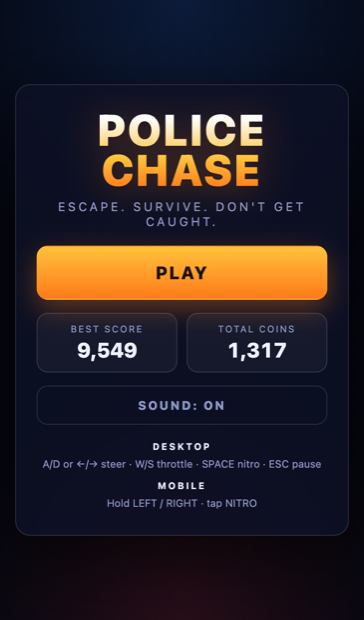
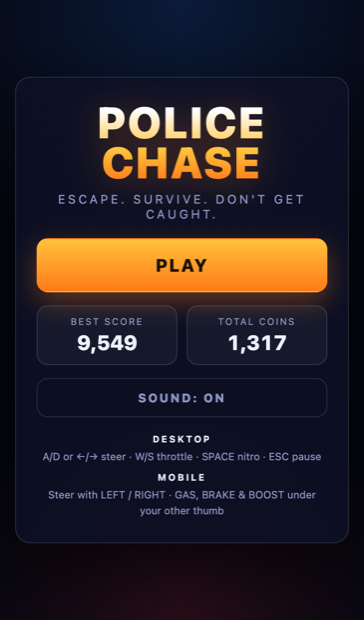
Add gas, brake and boost pedals to the mobile controls
Touch play only had LEFT, RIGHT and NITRO, so accelerate and brake were
never reachable on a phone. The car coasted at base speed with no way to
slow for a gap in traffic, and from the HARD tier onward the police
out-cruise that speed permanently, leaving nitro as the only escape.

Replace the single NITRO button with a three-pedal cluster grouped under
one thumb:

- GAS   (green, chevrons) bottom corner where the thumb rests
- BRAKE (red, octagon) beside it
- BOOST (blue, bolt) above it

Steering stays under the opposite thumb. The cluster is an L around the
thumb's pivot so all three are reachable without moving the hand, and
boost already forces acceleration on its own, so one thumb never needs to
hold two pedals at once.

Buttons are colour-coded and labelled with what they do. Sizes step down
at 400px and 340px viewports and in landscape; the smallest button stays
at 55px, above the 44px touch-target minimum.

Verified on iPhone 13, iPhone SE (320px), Pixel 7 and iPad: every control
sits inside the viewport with no overflow, and each pedal moves the car
state as expected (gas +242 speed, brake -352, boost +368 with nitro
drain). Holding GAS on a phone now reaches 644 speed, matching desktop.

diff --git a/src/style.css b/src/style.css
@@ -174,11 +174,21 @@ html, body {
 .ch-row b { color: var(--ink); font-size: 10px; letter-spacing: 2px; text-transform: uppercase; }
 
 /* ---------- Touch controls ---------- */
+/* Steering under the left thumb, the gas/brake/boost cluster under the right.
+   The cluster is an L around the thumb's natural pivot: GAS in the corner where
+   the thumb rests, BRAKE beside it, BOOST above it — all three reachable
+   without the hand moving. Boost already forces acceleration on its own, so a
+   single thumb never needs to hold two pedals at once. */
 #touch-controls {
+  --tc-dir: 76px;   /* steering buttons */
+  --tc-gas: 92px;   /* primary pedal, thumb rests here */
+  --tc-aux: 70px;   /* brake and boost */
+  --tc-gap: 10px;
+
   position: absolute;
   left: 0; right: 0;
   bottom: max(14px, env(safe-area-inset-bottom));
-  padding: 0 14px;
+  padding: 0 max(14px, env(safe-area-inset-left)) 0 max(14px, env(safe-area-inset-right));
   display: flex;
   align-items: flex-end;
   justify-content: space-between;
@@ -186,31 +196,96 @@ html, body {
   z-index: 15;
   pointer-events: none;
 }
+
+.tc-steer { display: flex; align-items: flex-end; gap: 12px; }
+
+.tc-pedals {
+  display: grid;
+  grid-template-columns: var(--tc-aux) var(--tc-gas);
+  grid-template-rows: var(--tc-aux) var(--tc-gas);
+  gap: var(--tc-gap);
+  align-items: end;
+  justify-items: end;
+}
+.tc-boost { grid-area: 1 / 2; }
+.tc-brake { grid-area: 2 / 1; }
+.tc-gas   { grid-area: 2 / 2; }
+
 .tc {
   pointer-events: auto;
   appearance: none;
-  border: 1px solid rgba(255, 255, 255, 0.2);
-  background: rgba(14, 18, 38, 0.5);
+  border: 1px solid rgba(255, 255, 255, 0.22);
+  background: rgba(14, 18, 38, 0.52);
   backdrop-filter: blur(8px);
   color: var(--ink);
   font: inherit;
   font-weight: 900;
   cursor: pointer;
-  display: flex; align-items: center; justify-content: center;
-  transition: transform 0.08s ease, background 0.08s ease;
+  display: flex;
+  flex-direction: column;
+  align-items: center;
+  justify-content: center;
+  gap: 1px;
+  padding: 0;
+  transition: transform 0.08s ease, background 0.08s ease, box-shadow 0.08s ease;
   touch-action: none;
 }
-.tc svg { width: 40px; height: 40px; fill: none; stroke: currentColor; stroke-width: 2.6; stroke-linecap: round; stroke-linejoin: round; }
-.tc-left, .tc-right { width: 84px; height: 84px; border-radius: 26px; }
-.tc-nitro {
-  width: 92px; height: 62px; border-radius: 20px;
-  margin-bottom: 11px;
-  font-size: 13px; letter-spacing: 2px;
-  background: linear-gradient(180deg, rgba(47, 123, 255, 0.55), rgba(47, 123, 255, 0.25));
-  border-color: rgba(120, 180, 255, 0.5);
+.tc span { font-size: 10px; letter-spacing: 1.2px; line-height: 1; opacity: 0.95; }
+.tc svg {
+  width: 30px; height: 30px;
+  fill: none; stroke: currentColor;
+  stroke-width: 2.4; stroke-linecap: round; stroke-linejoin: round;
 }
-.tc.active { transform: scale(0.93); background: rgba(255, 255, 255, 0.28); }
-.tc-nitro.active { background: linear-gradient(180deg, #7ab8ff, #2f7bff); color: #041024; }
+.tc svg.ic-fill { fill: currentColor; stroke: none; }
+
+/* Steering */
+.tc-dir { width: var(--tc-dir); height: var(--tc-dir); border-radius: 24px; }
+.tc-dir svg { width: 38px; height: 38px; stroke-width: 2.8; }
+
+/* Pedals — each colour-coded to what it does */
+.tc-gas {
+  width: var(--tc-gas); height: var(--tc-gas);
+  border-radius: 28px;
+  background: linear-gradient(180deg, rgba(34, 195, 122, 0.6), rgba(34, 195, 122, 0.26));
+  border-color: rgba(94, 255, 176, 0.55);
+  color: #ddfff0;
+}
+.tc-gas svg { width: 34px; height: 34px; }
+
+.tc-brake {
+  width: var(--tc-aux); height: var(--tc-aux);
+  border-radius: 22px;
+  background: linear-gradient(180deg, rgba(255, 59, 92, 0.52), rgba(255, 59, 92, 0.22));
+  border-color: rgba(255, 138, 158, 0.5);
+  color: #ffe2e7;
+}
+
+.tc-boost {
+  width: var(--tc-aux); height: var(--tc-aux);
+  border-radius: 22px;
+  background: linear-gradient(180deg, rgba(47, 123, 255, 0.55), rgba(47, 123, 255, 0.24));
+  border-color: rgba(143, 208, 255, 0.55);
+  color: #dcefff;
+}
+
+/* Pressed states */
+.tc.active { transform: scale(0.93); }
+.tc-dir.active { background: rgba(255, 255, 255, 0.3); }
+.tc-gas.active {
+  background: linear-gradient(180deg, #5effb0, #22c37a);
+  color: #04291a;
+  box-shadow: 0 0 22px rgba(94, 255, 176, 0.5);
+}
+.tc-brake.active {
+  background: linear-gradient(180deg, #ff8a9e, #ff3b5c);
+  color: #2b0410;
+  box-shadow: 0 0 22px rgba(255, 90, 120, 0.5);
+}
+.tc-boost.active {
+  background: linear-gradient(180deg, #8fd0ff, #2f7bff);
+  color: #041024;
+  box-shadow: 0 0 22px rgba(120, 190, 255, 0.55);
+}
 
 /* ---------- Pause button ---------- */
 .icon-btn {
@@ -232,10 +307,21 @@ html, body {
 .icon-btn:active { transform: scale(0.94); }
 
 /* ---------- Small screens / landscape ---------- */
-@media (max-width: 360px) {
+@media (max-width: 400px) {
+  #touch-controls { --tc-dir: 66px; --tc-gas: 80px; --tc-aux: 62px; --tc-gap: 8px; }
+  .tc-steer { gap: 9px; }
+  .tc svg { width: 26px; height: 26px; }
+  .tc-dir svg { width: 32px; height: 32px; }
+  .tc span { font-size: 9px; }
+}
+
+@media (max-width: 340px) {
   .panel { padding: 20px 16px; gap: 11px; }
-  .tc-left, .tc-right { width: 72px; height: 72px; }
-  .tc-nitro { width: 80px; height: 56px; }
+  #touch-controls { --tc-dir: 58px; --tc-gas: 70px; --tc-aux: 55px; --tc-gap: 7px; padding: 0 8px; }
+  .tc-steer { gap: 7px; }
+  .tc svg { width: 22px; height: 22px; }
+  .tc-dir svg { width: 28px; height: 28px; }
+  .tc span { font-size: 8px; letter-spacing: 0.6px; }
   .sb-value { font-size: 36px; }
 }
 
@@ -249,6 +335,6 @@ html, body {
   .btn { padding: 11px 16px; min-height: 42px; }
   .btn-primary { font-size: 17px; padding: 12px 16px; }
   .sb-value { font-size: 32px; }
-  #touch-controls { bottom: 10px; }
-  .tc-left, .tc-right { width: 70px; height: 70px; }
+  #touch-controls { bottom: 10px; --tc-dir: 62px; --tc-gas: 72px; --tc-aux: 56px; --tc-gap: 8px; }
+  .tc span { font-size: 9px; }
 }

diff --git a/index.html b/index.html
@@ -31,7 +31,7 @@
 
           <div class="controls-help">
             <div class="ch-row"><b>Desktop</b><span>A/D or ←/→ steer · W/S throttle · SPACE nitro · ESC pause</span></div>
-            <div class="ch-row"><b>Mobile</b><span>Hold LEFT / RIGHT · tap NITRO</span></div>
+            <div class="ch-row"><b>Mobile</b><span>Steer with LEFT / RIGHT · GAS, BRAKE &amp; BOOST under your other thumb</span></div>
           </div>
         </div>
       </section>
@@ -73,10 +73,33 @@
       </section>
 
       <!-- ===== Touch controls ===== -->
-      <div id="touch-controls" class="hidden" aria-hidden="true">
-        <button class="tc tc-left" data-ctl="left" aria-label="Steer left"><svg viewBox="0 0 24 24"><path d="M15 5 8 12l7 7"/></svg></button>
-        <button class="tc tc-nitro" data-ctl="nitro" aria-label="Nitro">NITRO</button>
-        <button class="tc tc-right" data-ctl="right" aria-label="Steer right"><svg viewBox="0 0 24 24"><path d="m9 5 7 7-7 7"/></svg></button>
+      <!-- Steering sits under the left thumb; gas/brake/boost are grouped as a
+           single cluster under the right thumb, arranged so one thumb can reach
+           all three without lifting off. -->
+      <div id="touch-controls" class="hidden">
+        <div class="tc-steer">
+          <button class="tc tc-dir" data-ctl="left" aria-label="Steer left">
+            <svg viewBox="0 0 24 24" aria-hidden="true"><path d="M15 5 8 12l7 7"/></svg>
+          </button>
+          <button class="tc tc-dir" data-ctl="right" aria-label="Steer right">
+            <svg viewBox="0 0 24 24" aria-hidden="true"><path d="m9 5 7 7-7 7"/></svg>
+          </button>
+        </div>
+
+        <div class="tc-pedals">
+          <button class="tc tc-boost" data-ctl="nitro" aria-label="Boost">
+            <svg viewBox="0 0 24 24" aria-hidden="true" class="ic-fill"><path d="M13 2 4 14h6l-1 8 9-12h-6z"/></svg>
+            <span>BOOST</span>
+          </button>
+          <button class="tc tc-brake" data-ctl="brake" aria-label="Brake">
+            <svg viewBox="0 0 24 24" aria-hidden="true"><path d="M8.5 3h7L21 8.5v7L15.5 21h-7L3 15.5v-7z"/><path d="M8 12h8"/></svg>
+            <span>BRAKE</span>
+          </button>
+          <button class="tc tc-gas" data-ctl="accelerate" aria-label="Accelerate">
+            <svg viewBox="0 0 24 24" aria-hidden="true"><path d="M6 13l6-6 6 6M6 18.5l6-6 6 6"/></svg>
+            <span>GAS</span>
+          </button>
+        </div>
       </div>
 
       <button id="btn-pause" class="icon-btn hidden" aria-label="Pause">

diff --git a/README.md b/README.md
@@ -70,7 +70,7 @@ No install. No account. No downloads. Just hit **PLAY**.
 <td align="center">
   <img src="docs/screenshots/mobile.png" width="240" alt="Mobile touch controls"><br>
   <b>Mobile</b><br>
-  <sub>Big thumb targets that never block the road</sub>
+  <sub>Steering one side, GAS / BRAKE / BOOST the other</sub>
 </td>
 <td align="center">
   <img src="docs/screenshots/pause.png" width="240" alt="Pause screen"><br>
@@ -108,9 +108,9 @@ nginx — anything. **There is no backend.**
 <table>
 <tr><th align="left">Action</th><th align="left">⌨ Desktop</th><th align="left">📱 Mobile</th></tr>
 <tr><td><b>Steer</b></td><td><code>A</code> <code>D</code> &nbsp;or&nbsp; <code>←</code> <code>→</code></td><td>hold <b>LEFT</b> / <b>RIGHT</b></td></tr>
-<tr><td><b>Accelerate</b></td><td><code>W</code> &nbsp;or&nbsp; <code>↑</code></td><td>auto-cruise</td></tr>
-<tr><td><b>Brake</b></td><td><code>S</code> &nbsp;or&nbsp; <code>↓</code></td><td>—</td></tr>
-<tr><td><b>Nitro</b></td><td><code>Space</code></td><td>hold <b>NITRO</b></td></tr>
+<tr><td><b>Accelerate</b></td><td><code>W</code> &nbsp;or&nbsp; <code>↑</code></td><td>hold <b>GAS</b></td></tr>
+<tr><td><b>Brake</b></td><td><code>S</code> &nbsp;or&nbsp; <code>↓</code></td><td>hold <b>BRAKE</b></td></tr>
+<tr><td><b>Nitro</b></td><td><code>Space</code></td><td>hold <b>BOOST</b></td></tr>
 <tr><td><b>Pause</b></td><td><code>Esc</code></td><td>HUD pause button</td></tr>
 </table>
 
